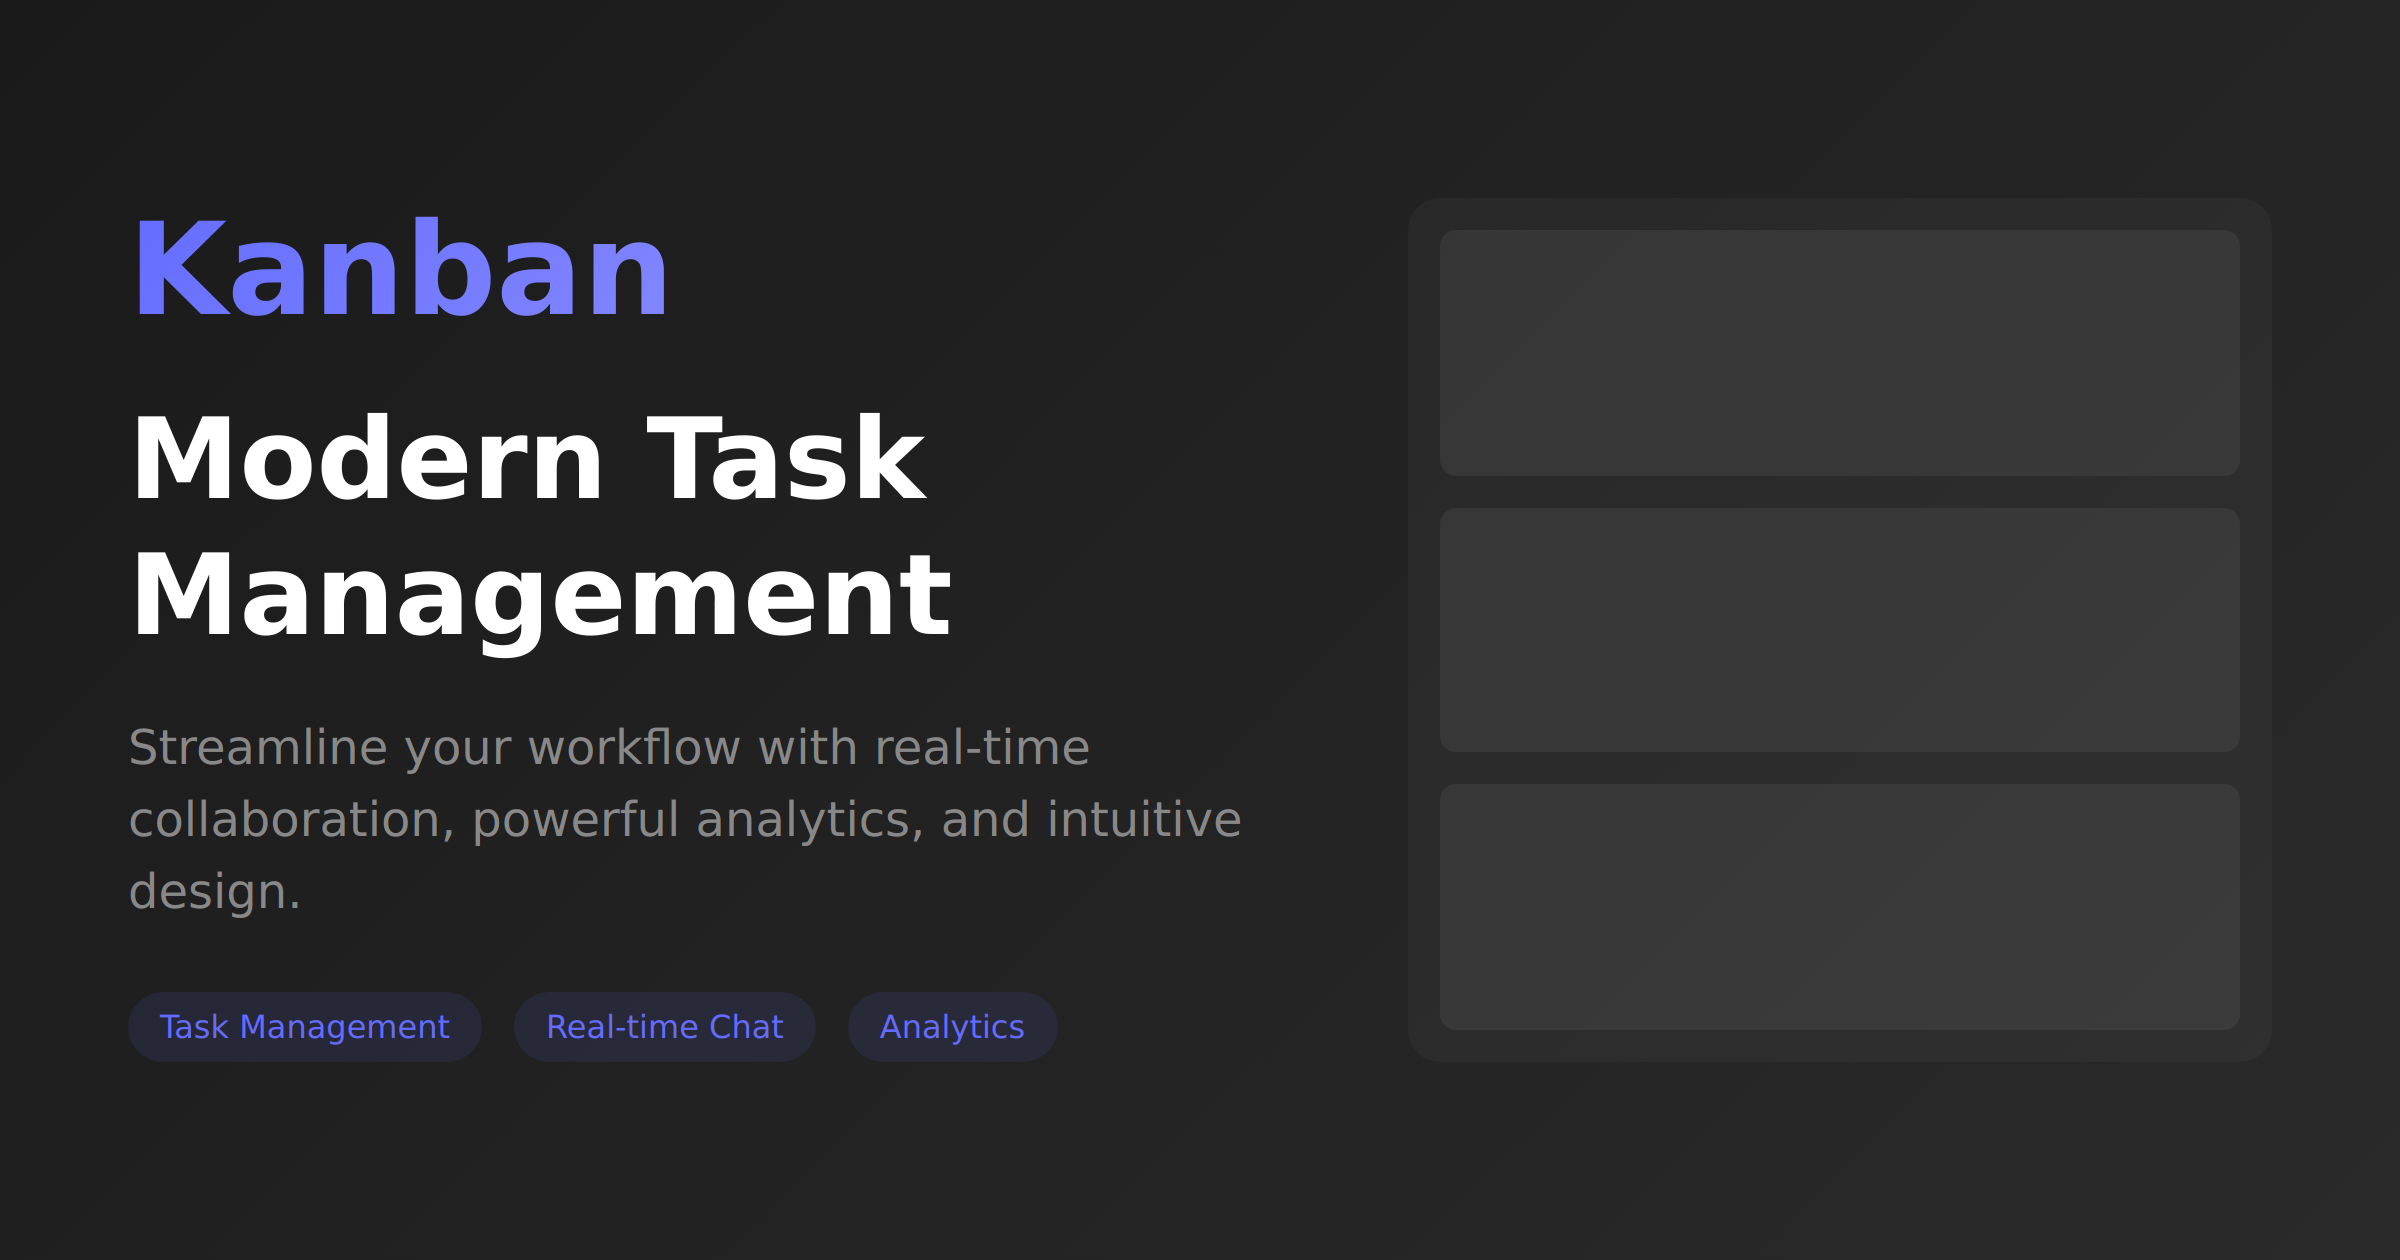
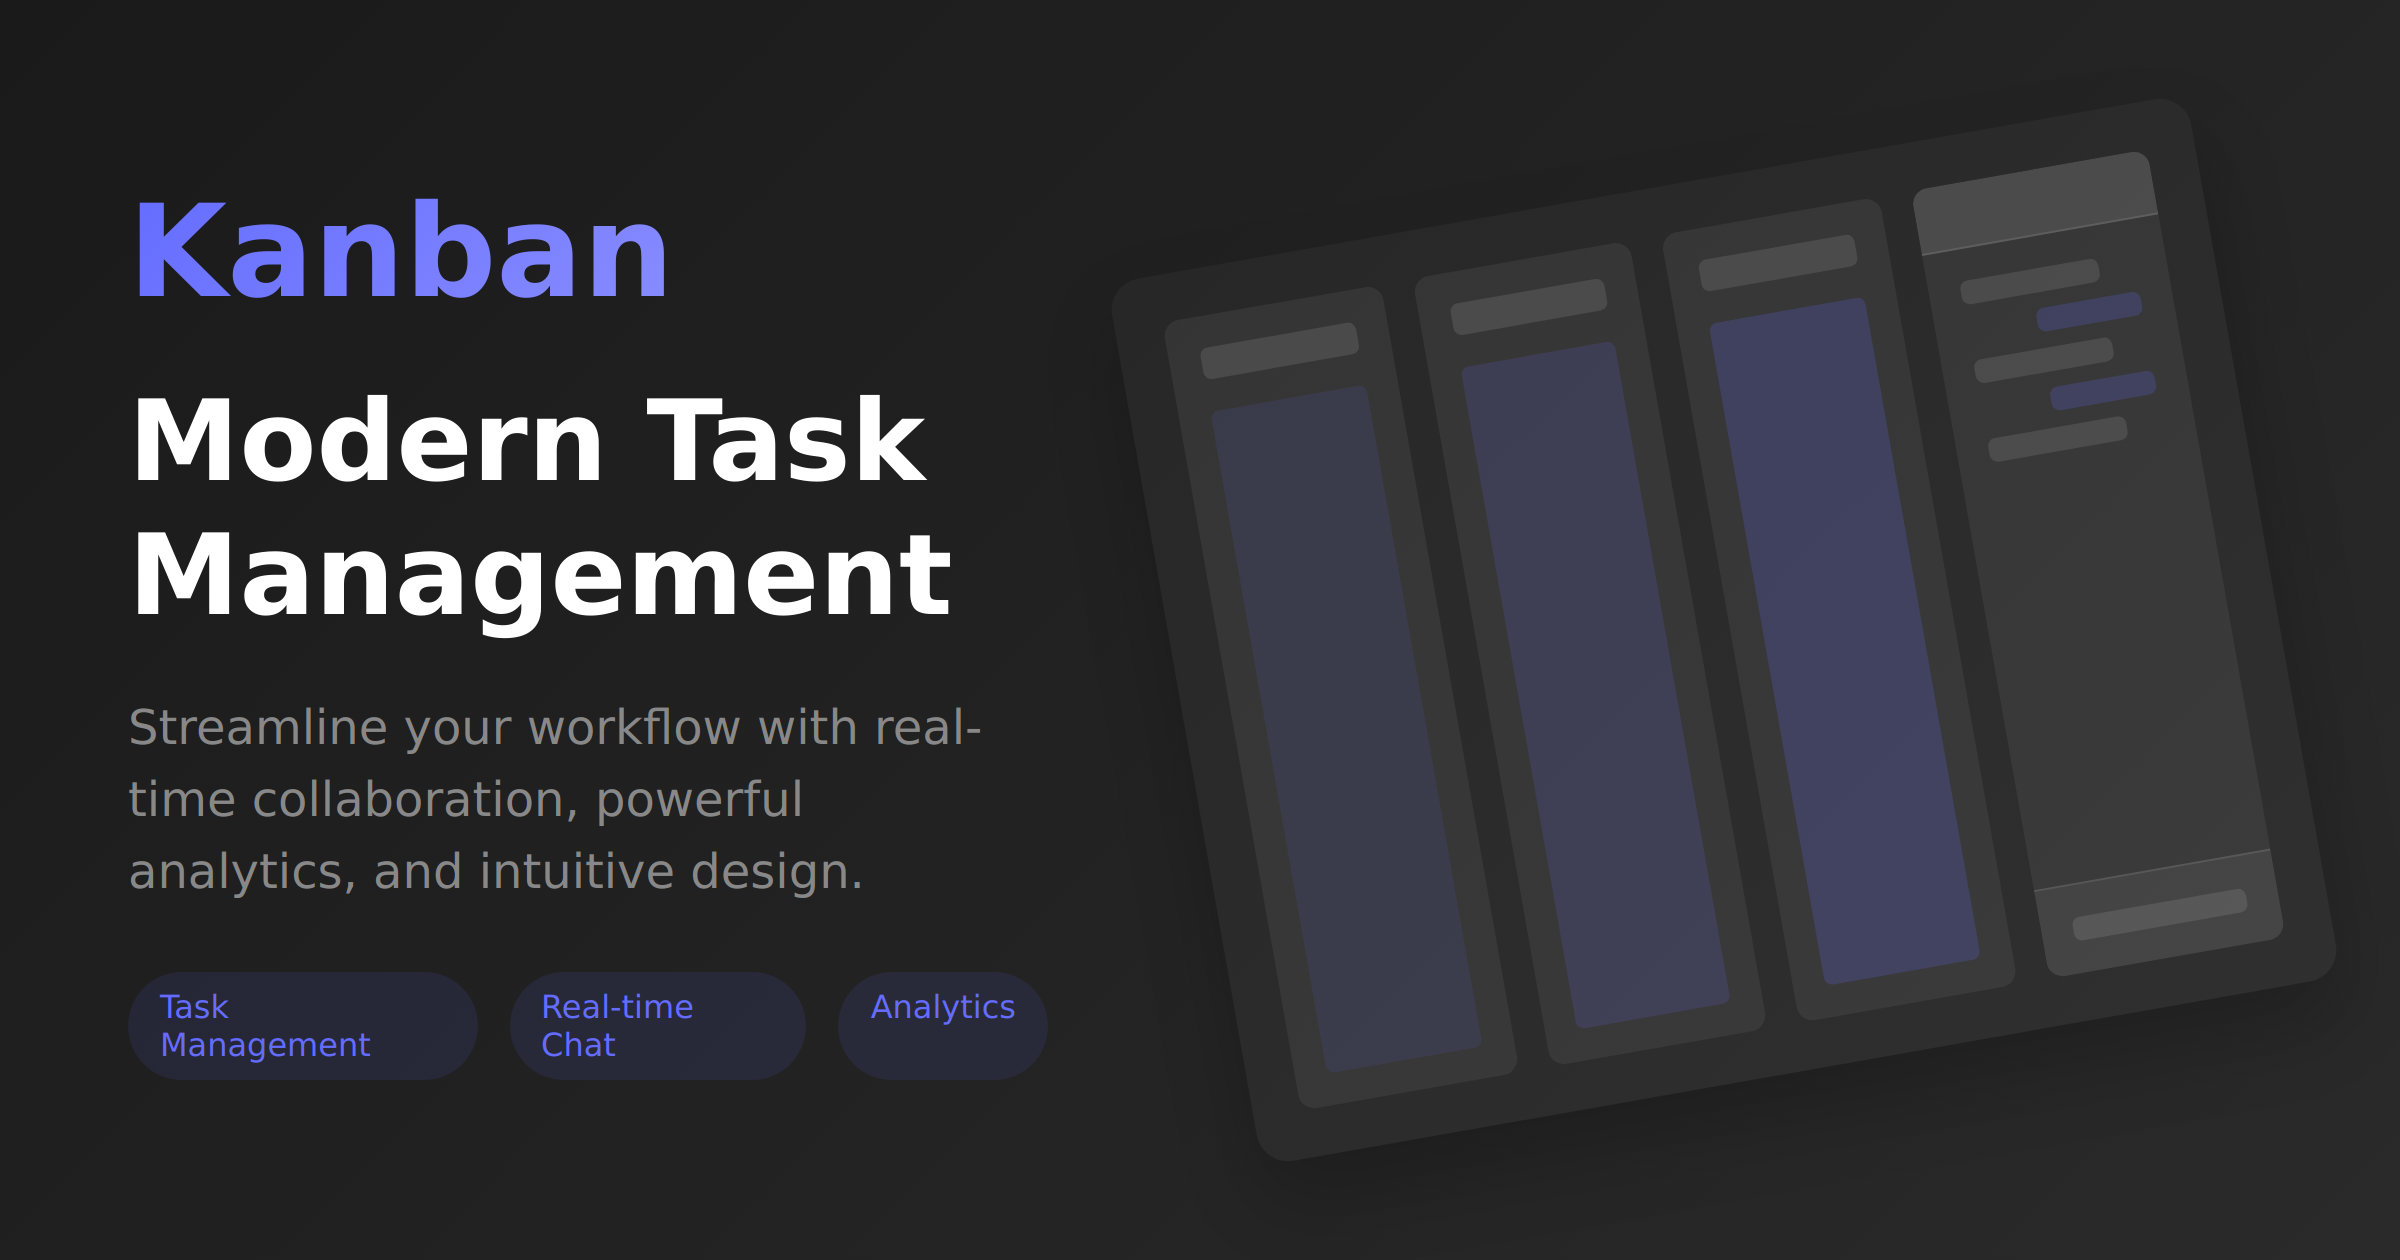
feat(og): update preview image with chat visualization
- Add chat panel visualization to OG preview\n- Improve layout with board and chat side by side\n- Add message bubbles and input bar to chat\n- Adjust preview width to accommodate chat panel

diff --git a/public/og-preview.html b/public/og-preview.html
@@ -61,19 +61,96 @@
       font-weight: 500;
     }
     .preview {
-      width: 400px;
+      width: 500px;
       height: 400px;
       background: rgba(255, 255, 255, 0.03);
       border-radius: 1rem;
+      padding: 1.5rem;
       display: flex;
-      flex-direction: column;
-      padding: 1rem;
+      gap: 1rem;
+      transform: rotate(-10deg);
+      box-shadow: 0 20px 40px rgba(0, 0, 0, 0.2);
+    }
+    .board {
+      flex: 1;
+      display: grid;
+      grid-template-columns: repeat(3, 1fr);
       gap: 1rem;
     }
     .column {
-      flex: 1;
+      height: 100%;
       background: rgba(255, 255, 255, 0.06);
       border-radius: 0.5rem;
+      position: relative;
+      overflow: hidden;
+    }
+    .column::after {
+      content: '';
+      position: absolute;
+      top: 1rem;
+      left: 1rem;
+      right: 1rem;
+      height: 1rem;
+      background: rgba(255, 255, 255, 0.1);
+      border-radius: 0.25rem;
+    }
+    .column::before {
+      content: '';
+      position: absolute;
+      top: 3rem;
+      left: 1rem;
+      right: 1rem;
+      bottom: 1rem;
+      background: rgba(100, 108, 255, 0.1);
+      border-radius: 0.25rem;
+    }
+    .column:nth-child(2)::before {
+      background: rgba(100, 108, 255, 0.15);
+    }
+    .column:nth-child(3)::before {
+      background: rgba(100, 108, 255, 0.2);
+    }
+    .chat {
+      width: 120px;
+      background: rgba(255, 255, 255, 0.06);
+      border-radius: 0.5rem;
+      position: relative;
+      overflow: hidden;
+      display: flex;
+      flex-direction: column;
+    }
+    .chat-header {
+      padding: 1rem;
+      background: rgba(255, 255, 255, 0.1);
+      border-bottom: 1px solid rgba(255, 255, 255, 0.1);
+    }
+    .chat-messages {
+      flex: 1;
+      padding: 1rem;
+      display: flex;
+      flex-direction: column;
+      gap: 0.5rem;
+    }
+    .message {
+      height: 0.75rem;
+      background: rgba(255, 255, 255, 0.1);
+      border-radius: 0.25rem;
+      width: 80%;
+    }
+    .message:nth-child(even) {
+      width: 60%;
+      margin-left: auto;
+      background: rgba(100, 108, 255, 0.2);
+    }
+    .chat-input {
+      padding: 1rem;
+      border-top: 1px solid rgba(255, 255, 255, 0.1);
+      background: rgba(255, 255, 255, 0.05);
+    }
+    .input-bar {
+      height: 0.75rem;
+      background: rgba(255, 255, 255, 0.1);
+      border-radius: 0.25rem;
     }
   </style>
 </head>
@@ -90,9 +167,24 @@
       </div>
     </div>
     <div class="preview">
-      <div class="column"></div>
-      <div class="column"></div>
-      <div class="column"></div>
+      <div class="board">
+        <div class="column"></div>
+        <div class="column"></div>
+        <div class="column"></div>
+      </div>
+      <div class="chat">
+        <div class="chat-header"></div>
+        <div class="chat-messages">
+          <div class="message"></div>
+          <div class="message"></div>
+          <div class="message"></div>
+          <div class="message"></div>
+          <div class="message"></div>
+        </div>
+        <div class="chat-input">
+          <div class="input-bar"></div>
+        </div>
+      </div>
     </div>
   </div>
 </body>
